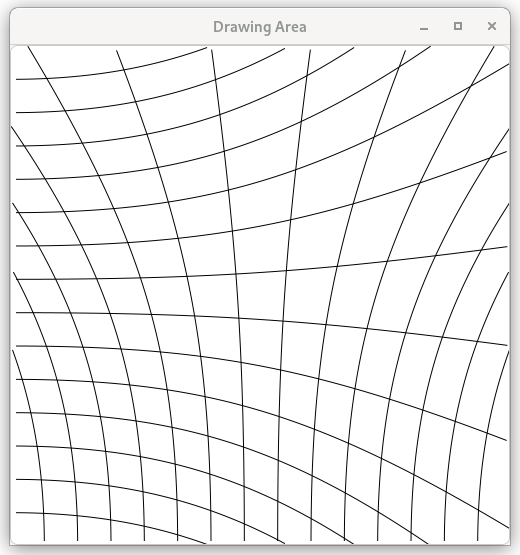
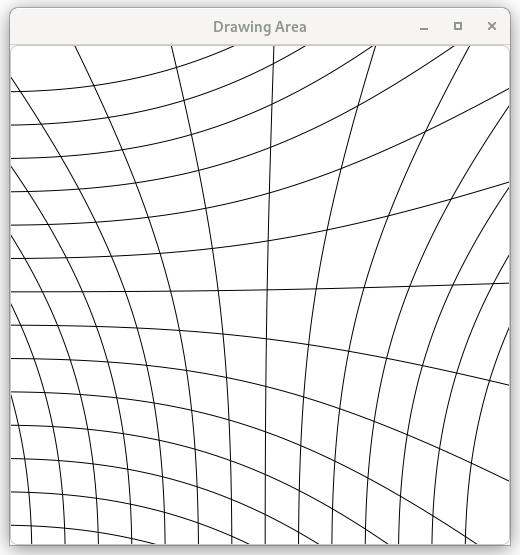
Added edge tolerance

Changed region(s): [[0.0, 0.0919, 0.9846, 0.9802], [0.6154, 0.0919, 0.8615, 0.2144]]

diff --git a/diffeq_solver.cpp b/diffeq_solver.cpp
@@ -174,6 +174,7 @@ void calculate_paths(std::vector<Point> *paths,int size_x,int size_y){
 	//                      {function, jacobian, dimension, parameters};
 	const int PATHS_PER_RUN = NUM_PATHS / 2;
 	const int NUM_STEPS = 1000;
+	const double EDGE_TOLERANCE = (Y_MAX-Y_MIN+X_MAX-X_MIN)/4.0 / 20.0;
 	const gsl_odeiv2_step_type *step_type = gsl_odeiv2_step_rkf45;
 	for(int j=0;j<PATHS_PER_RUN;j++){
 		std::cout << "Solving differential equation " << j+1 << "/" << NUM_PATHS << "\n";
@@ -182,7 +183,7 @@ void calculate_paths(std::vector<Point> *paths,int size_x,int size_y){
 		int i=0;
 		double t=0.0,t1=100.0;
 		//initial conditions
-		double Y[4] = {X_MIN,X_MIN + (double)j/PATHS_PER_RUN*(X_MAX-X_MIN),(X_MAX-X_MIN)/10.0,0.0};
+		double Y[4] = {X_MIN - EDGE_TOLERANCE,Y_MIN - EDGE_TOLERANCE + (double)j/PATHS_PER_RUN*(Y_MAX-Y_MIN),(Y_MAX-Y_MIN)/10.0,0.0};
 		
 		for(i=1;i<=NUM_STEPS;i++){
 			double ti = i * t1 / (double)NUM_STEPS;
@@ -191,7 +192,7 @@ void calculate_paths(std::vector<Point> *paths,int size_x,int size_y){
 				printf("error, return value = %d\n",status);
 				break;
 			}
-			if(Y[0] > X_MAX || Y[0] < X_MIN || Y[1] > Y_MAX || Y[1] < Y_MIN || std::isnan(Y[0]) || std::isnan(Y[1]))
+			if(Y[0] > X_MAX+EDGE_TOLERANCE || Y[0] < X_MIN-EDGE_TOLERANCE || Y[1] > Y_MAX+EDGE_TOLERANCE || Y[1] < Y_MIN-EDGE_TOLERANCE || std::isnan(Y[0]) || std::isnan(Y[1]))
 				break;
 			Point p;
 			p.x=map_point_x(Y[0],size_x);
@@ -207,7 +208,7 @@ void calculate_paths(std::vector<Point> *paths,int size_x,int size_y){
 		int i=0;
 		double t=0.0,t1=100.0;
 		//initial conditions
-		double Y[4] = {Y_MIN+(double)j/PATHS_PER_RUN*(Y_MAX-Y_MIN),Y_MIN,0.0,(Y_MAX-Y_MIN)/10.0};
+		double Y[4] = {X_MIN - EDGE_TOLERANCE + (double)j/PATHS_PER_RUN*(X_MAX-X_MIN),Y_MIN - EDGE_TOLERANCE,0.0,(X_MAX-X_MIN)/10.0};
 		
 		for(i=1;i<=NUM_STEPS;i++){
 			double ti = i * t1 / (double)NUM_STEPS;
@@ -216,7 +217,7 @@ void calculate_paths(std::vector<Point> *paths,int size_x,int size_y){
 				printf("error, return value = %d\n",status);
 				break;
 			}
-			if(Y[0] > X_MAX || Y[0] < X_MIN || Y[1] > Y_MAX || Y[1] < Y_MIN || std::isnan(Y[0]) || std::isnan(Y[1]))
+			if(Y[0] > X_MAX+EDGE_TOLERANCE || Y[0] < X_MIN-EDGE_TOLERANCE || Y[1] > Y_MAX+EDGE_TOLERANCE || Y[1] < Y_MIN-EDGE_TOLERANCE || std::isnan(Y[0]) || std::isnan(Y[1]))
 				break;
 			Point p;
 			p.x=map_point_x(Y[0],size_x);
